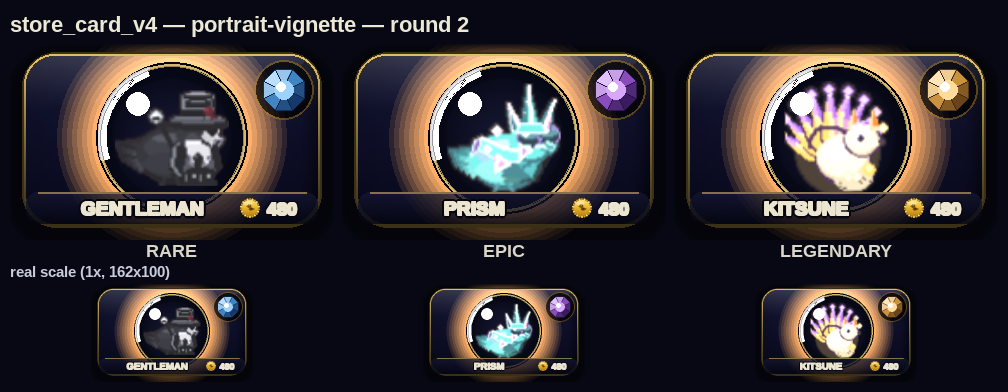
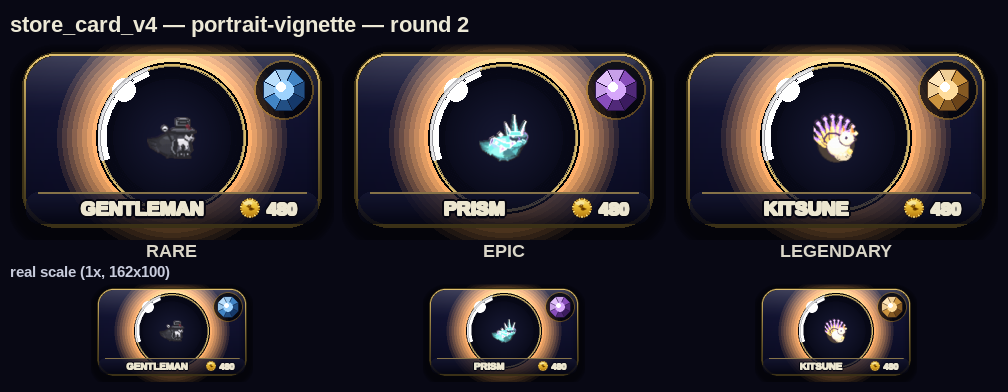
docs: store_card_v4 intaglio-seal round_2 + portrait-vignette r2 fix
Claude-Session: https://claude.ai/code/session_011726ot8uBSmurQVaEkGY6K

diff --git a/tools/_store_card_v4_intaglio_seal_r2.py b/tools/_store_card_v4_intaglio_seal_r2.py
@@ -1,0 +1,303 @@
+#!/usr/bin/env python3
+"""store_card_v4 intaglio-seal — round 2 (final).
+
+Round-1 read as a Skybit COIN (gold ring + domed face + gem + price = coin
+grammar) and had an invisible engraved name, a border that dissolved lower-left,
+blown top-right speculars, and a price chip the same value as the card body.
+
+Round 2 implements every art-director note:
+  P0  Hero is a heraldic ESCUTCHEON (arched top, pointed bottom), not a round
+      ring — instantly separating the crest from a coin. The domed gem now reads
+      as a stone SET INTO the crest.
+  P1  A warm stone-gold NAME PLAQUE below the shield carries the engraved name
+      (incised down-right shadow + up-left bevel highlight) so it is legible.
+  P2  A (8,8,20) contact-shadow ring outside the shield + a dark keyline under a
+      gold bevel keep the silhouette CLOSED all the way round, incl. lower-left.
+  P3  The shield bevel is lit by ONE consistent top-left source — golden bright
+      top-left easing to a still-legible shadow-gold bottom-right; no highlight
+      exceeds alpha 220 (no blown chrome).
+  P4  The price chip steps clearly above the card: a lighter indigo body ramp +
+      a CARD_RING_BRIGHT rim + a coin glyph + cream numerals.
+
+The card sizes preserve the AD layout order (shield high, plaque below, chip at
+the foot, tier gem top-right); the shield is scaled to compose cleanly inside
+the 176px body rather than overrunning the plaque + chip.
+"""
+import os
+import math
+
+os.environ["SDL_VIDEODRIVER"] = "dummy"
+os.environ["SDL_AUDIODRIVER"] = "dummy"
+import sys
+sys.path.insert(0, "/home/user/skybit")
+
+import pygame
+pygame.init()
+pygame.display.set_mode((1, 1))
+
+import game.store_cards as sc
+from game.store_cards import (
+    m, SS, vgrad, vgrad_stops, top_sheen, contact_shadow, bevel_rim,
+    drop_shadow, cabochon, cabochon_glass, blit_thumb, facet_gem, coin_glyph,
+    chip_body_stops, soft_glow, plain_text, _glyph_base, _stamp_bold, font,
+    CARD_T, CARD_B, CARD_RING_DEEP, CARD_RING_BRIGHT, CARD_RAD, GEM_R, RARITY,
+)
+from game.hud import _font
+from game.draw import lerp_color, WHITE, NEAR_BLACK
+
+
+# BLEND_ADD reads only RGB, so the stock gloss_sweep (which encodes the sweep in
+# ALPHA) writes alpha=0 into the destination on any transparent headroom. Encode
+# the ramp as RGB magnitude clipped to the pill mask so the gloss survives.
+def _gloss_sweep_fixed(surf, rect, radius, peak=120):
+    sweep = pygame.Surface(rect.size, pygame.SRCALPHA)
+    h = max(1, rect.h)
+    for y in range(h):
+        v = int(peak * (1 - y / h) ** 2.4)
+        if v <= 0:
+            continue
+        pygame.draw.line(sweep, (v, v, v, 255), (0, y), (rect.w, y))
+    sm = pygame.Surface(rect.size, pygame.SRCALPHA)
+    pygame.draw.rect(sm, (255, 255, 255, 255), sm.get_rect(), border_radius=radius)
+    sweep.blit(sm, (0, 0), special_flags=pygame.BLEND_RGBA_MIN)
+    surf.blit(sweep, rect.topleft, special_flags=pygame.BLEND_ADD)
+sc.gloss_sweep = _gloss_sweep_fixed
+
+
+# ── tiers under test ──────────────────────────────────────────────────────────
+TIERS = [
+    ("RARE",      "skin_tophat",  "520"),
+    ("EPIC",      "skin_prism",   "1,400"),
+    ("LEGENDARY", "skin_kitsune", "3,500"),
+]
+
+BG = (8, 8, 20)
+PANEL_W, PANEL_H = 162 * SS, 100 * SS       # authored device panel = 324x200
+GAP = 8
+MARGIN = 10
+TITLE_H = 34
+LABEL_H = 34
+CANVAS_W = MARGIN * 2 + PANEL_W * 3 + GAP * 2
+CANVAS_H = TITLE_H + PANEL_H + LABEL_H
+
+# Single top-left light — the ONE direction for every bevel on the card.
+LX, LY = -0.7071, -0.7071
+# Bevel range: golden crest highlight -> a shadow-gold that still holds L>=80 so
+# the border never dissolves into the body (P2 + P3 reconciled).
+BEVEL_BRIGHT = CARD_RING_BRIGHT              # (236,202,116)
+BEVEL_SHADOW = (122, 98, 48)                 # luma ~97 — reads as a lit edge
+
+
+def _quad(p0, p1, p2, steps):
+    return [((1 - t) ** 2 * p0[0] + 2 * (1 - t) * t * p1[0] + t * t * p2[0],
+             (1 - t) ** 2 * p0[1] + 2 * (1 - t) * t * p1[1] + t * t * p2[1])
+            for t in (i / steps for i in range(steps + 1))]
+
+
+def escutcheon(sx, sy, sw, sh):
+    """Heraldic heater shield: flat rounded top, straight shoulders, twin lower
+    arcs meeting at a point. Returned as a dense polygon so ONE smoothscale
+    resolves the curves crisp."""
+    left, right = sx, sx + sw
+    cx = sx + sw / 2.0
+    top, bot = sy, sy + sh
+    corner = sw * 0.13
+    shoulder = sy + sh * 0.34
+    pts = []
+    pts.append((left + corner, top))
+    pts.append((right - corner, top))
+    pts += _quad((right - corner, top), (right, top), (right, top + corner), 6)
+    pts.append((right, shoulder))
+    pts += _quad((right, shoulder), (right, bot), (cx, bot), 18)     # r lower arc
+    pts += _quad((cx, bot), (left, bot), (left, shoulder), 18)       # l lower arc
+    pts.append((left, top + corner))
+    pts += _quad((left, top + corner), (left, top), (left + corner, top), 6)
+    return pts
+
+
+def _centroid(pts):
+    return (sum(p[0] for p in pts) / len(pts),
+            sum(p[1] for p in pts) / len(pts))
+
+
+def _name_plaque(surf, name, cx, cy, w, h):
+    """Warm stone-gold plaque carrying the incised name. On this warm ground the
+    engraving reads: an up-left bevel highlight + a down-right incised shadow
+    around a dark carved fill."""
+    r = pygame.Rect(cx - w // 2, cy - h // 2, w, h)
+    rad = m(4)
+    drop_shadow(surf, r, rad, blur=m(3), alpha=90, dy=m(1.5))
+    surf.blit(vgrad_stops(w, h, rad, [(0.0, (180, 160, 110)), (1.0, (140, 115, 75))],
+                          alpha=230), r.topleft)
+    top_sheen(surf, r, rad, m(6), peak=52)
+    # dark contact keyline under a soft top-left stone bevel
+    pygame.draw.rect(surf, (66, 50, 24), r, width=max(1, m(1)), border_radius=rad)
+    bevel_rim(surf, r, rad, (78, 60, 30), (250, 236, 200, 180), w=max(1, m(1)))
+
+    sz = 12.0
+    f = font(sz)
+    while _glyph_base(name, f, 0).get_width() > w - m(16) and sz > 7.5:
+        sz -= 0.5
+        f = font(sz)
+    base = _stamp_bold(_glyph_base(name, f, 0), m(0.7))
+    rr = base.get_rect(center=(cx, cy))
+    hi = base.copy(); hi.fill((255, 240, 200, 255), special_flags=pygame.BLEND_RGBA_MULT)
+    shd = base.copy(); shd.fill((40, 30, 10, 255), special_flags=pygame.BLEND_RGBA_MULT)
+    mid = base.copy(); mid.fill((66, 48, 20, 255), special_flags=pygame.BLEND_RGBA_MULT)
+    surf.blit(hi, (rr.x - m(1), rr.y - m(1)))       # up-left bevel highlight
+    surf.blit(shd, (rr.x + m(1), rr.y + m(1)))      # down-right incised shadow
+    surf.blit(mid, rr.topleft)                      # carved-dark letter core
+
+
+def _seal_price_chip(surf, cx, cy, text, h):
+    """Price chip stepped clearly above the card body: a lighter indigo ramp
+    (never the card's own dark), a bright card-ring rim, a coin glyph + cream
+    numerals."""
+    coin_d = int(h * 0.62)
+    pad = m(11)
+    gapc = m(6)
+    f = font(h * 0.46 / SS)
+    nw = _glyph_base(text, f, 0).get_width() + m(2)
+    w = pad + coin_d + gapc + nw + pad
+    r = pygame.Rect(cx - w // 2, cy - h // 2, w, h)
+    chip_body_stops(surf, r, h // 2, [(0.0, (48, 44, 80)), (1.0, (28, 24, 52))],
+                    (8, 8, 20), CARD_RING_BRIGHT, gloss=34, gamma=1.05)
+    rim = pygame.Surface(r.size, pygame.SRCALPHA)
+    pygame.draw.rect(rim, (*CARD_RING_BRIGHT, 180), rim.get_rect(),
+                     width=max(1, m(1)), border_radius=h // 2)
+    surf.blit(rim, r.topleft)
+    x = r.x + pad
+    coin_glyph(surf, x + coin_d // 2, cy, coin_d // 2)
+    x += coin_d + gapc
+    plain_text(surf, text, f, (x + nw // 2, cy), (236, 230, 208), shadow_a=0,
+               weight=m(1.0))
+    return r
+
+
+def _draw_shield(big, sid, rect, pal):
+    cx = rect.centerx
+    sw, sh = m(44), m(50)
+    sx = cx - sw // 2
+    sy = rect.y + m(5)
+    outline = escutcheon(sx, sy, sw, sh)
+    ctr = _centroid(outline)
+
+    # P2a — contact-shadow ring OUTSIDE the border (offset down-right) so even the
+    # shadowed lower arch is backed by a dark edge on the body.
+    shadow_pts = [(x + m(2), y + m(2)) for (x, y) in outline]
+    shsurf = pygame.Surface(big.get_size(), pygame.SRCALPHA)
+    pygame.draw.polygon(shsurf, (8, 8, 20, 220), shadow_pts)
+    big.blit(shsurf, (0, 0))
+
+    # Shield field — a dark, faintly tier-tinted stone so the set gem pops. Built
+    # on its own surface + masked to the silhouette, then one top sheen.
+    bx0 = min(p[0] for p in outline); by0 = min(p[1] for p in outline)
+    bx1 = max(p[0] for p in outline); by1 = max(p[1] for p in outline)
+    bw, bh = int(bx1 - bx0) + 1, int(by1 - by0) + 1
+    field_t = lerp_color((26, 28, 62), pal["deep"], 0.28)
+    field_b = lerp_color((10, 11, 30), pal["deep"], 0.16)
+    grad = vgrad_stops(bw, bh, 0, [(0.0, field_t), (1.0, field_b)], 255, gamma=1.18)
+    local = [(x - bx0, y - by0) for (x, y) in outline]
+    mask = pygame.Surface((bw, bh), pygame.SRCALPHA)
+    pygame.draw.polygon(mask, (255, 255, 255, 255), local)
+    grad.blit(mask, (0, 0), special_flags=pygame.BLEND_RGBA_MIN)
+    sheen = pygame.Surface((bw, bh), pygame.SRCALPHA)
+    for y in range(int(sh * 0.5)):
+        pygame.draw.line(sheen, (255, 255, 255, int(46 * (1 - y / (sh * 0.5)) ** 1.4)),
+                         (0, y), (bw, y))
+    sheen.blit(mask, (0, 0), special_flags=pygame.BLEND_RGBA_MIN)
+    grad.blit(sheen, (0, 0), special_flags=pygame.BLEND_RGBA_ADD)
+    big.blit(grad, (int(bx0), int(by0)))
+
+    # P2b — dark keyline all the way round (a closed contact edge), then
+    # P3 — a single top-left-lit gold bevel just inside it. Per-edge shade eases
+    # bright(top-left) -> shadow-gold(bottom-right); no alpha above 220.
+    pygame.draw.polygon(big, (4, 5, 16), [(int(x), int(y)) for x, y in outline],
+                        width=max(1, m(2)))
+    inset = [(x + sc_unit(x, y, ctr)[0] * m(1.4),
+              y + sc_unit(x, y, ctr)[1] * m(1.4)) for (x, y) in outline]
+    n = len(inset)
+    for i in range(n):
+        x1, y1 = inset[i]
+        x2, y2 = inset[(i + 1) % n]
+        mx, my = (x1 + x2) / 2, (y1 + y2) / 2
+        ox, oy = sc_unit(mx, my, ctr)
+        f = max(0.0, min(1.0, (ox * LX + oy * LY + 1) / 2))   # 0 shadow .. 1 lit
+        col = lerp_color(BEVEL_SHADOW, BEVEL_BRIGHT, f)
+        a = int(150 + 70 * f)                                  # 150..220 (capped)
+        pygame.draw.line(big, (*col, a), (x1, y1), (x2, y2), max(1, m(1.7)))
+
+    return cx, sy, sw, sh
+
+
+def sc_unit(x, y, ctr):
+    dx, dy = x - ctr[0], y - ctr[1]
+    l = math.hypot(dx, dy) or 1.0
+    return dx / l, dy / l
+
+
+def render_panel(word, sid, price):
+    pal = RARITY[sc._rarity(sid)]
+    big = pygame.Surface((PANEL_W, PANEL_H), pygame.SRCALPHA)
+    rect = pygame.Rect(m(6), m(6), PANEL_W - 2 * m(6), PANEL_H - 2 * m(6))
+    rad = m(CARD_RAD)
+
+    # ── card shell (the locked CONSTELLATION body finish) ─────────────────────
+    drop_shadow(big, rect, rad, blur=m(8), alpha=160, dy=m(4))
+    big.blit(vgrad(rect.w, rect.h, rad, CARD_T, CARD_B, 252, gamma=1.15), rect.topleft)
+    top_sheen(big, rect, rad, m(30), peak=62)
+    contact_shadow(big, rect, rad, m(9), alpha=120)
+    pygame.draw.rect(big, (4, 5, 16), rect, width=max(1, m(2)), border_radius=rad)
+    bevel_rim(big, rect, rad, CARD_RING_DEEP, (*CARD_RING_BRIGHT, 235), w=max(1, m(2.0)))
+    # neutral inner tray keyline, matching the family
+    tray = rect.inflate(-m(7), -m(7))
+    pygame.draw.rect(big, (10, 10, 24, 200), tray.inflate(m(2), m(2)),
+                     width=max(1, m(1)), border_radius=rad - m(3))
+    pygame.draw.rect(big, (*CARD_RING_BRIGHT, 80), tray, width=max(1, m(1)),
+                     border_radius=rad - m(4))
+
+    # ── P0 hero: the escutcheon crest with a gem set into it ───────────────────
+    cx, sy, sw, sh = _draw_shield(big, sid, rect, pal)
+    cyd = sy + m(21)
+    r_dome = m(15)
+    soft_glow(big, cx, cyd, r_dome + m(3), pal["glow"], 26, layers=8)
+    cabochon(big, cx, cyd, r_dome, sc.CABO_LO, sc.CABO_HI, ring=pal["gem"], ring_a=50)
+    try:
+        blit_thumb(big, sid, cx, cyd, int(r_dome * 1.5))
+    except Exception:
+        pygame.draw.circle(big, (*pal["gem"], 255), (cx, cyd), int(r_dome * 0.7))
+    cabochon_glass(big, cx, cyd, r_dome, tint=pal["gem"])
+
+    # ── tier rank gem, top-right corner ───────────────────────────────────────
+    facet_gem(big, rect.right - m(19), rect.y + m(19), m(GEM_R + 3),
+              pal["gem"], pal["deep"])
+
+    # ── P1 name plaque, then P4 price chip ────────────────────────────────────
+    _name_plaque(big, sc._name(sid), cx, sy + sh + m(7), rect.w - m(16), m(13))
+    _seal_price_chip(big, cx, rect.bottom - m(10), price, m(16))
+    return big
+
+
+# =============================================================================
+# Stitch the 3-panel strip.
+# =============================================================================
+canvas = pygame.Surface((CANVAS_W, CANVAS_H))
+canvas.fill(BG)
+
+title = _font(22, True)
+tt = title.render("store_card_v4  –  intaglio-seal  –  round 2 (final)",
+                  True, (226, 224, 240))
+canvas.blit(tt, tt.get_rect(midtop=(CANVAS_W // 2, 7)))
+
+label_font = _font(20, True)
+for i, (word, sid, price) in enumerate(TIERS):
+    panel = render_panel(word, sid, price)
+    px = MARGIN + i * (PANEL_W + GAP)
+    canvas.blit(panel, (px, TITLE_H))
+    lab = label_font.render(word, True, (206, 210, 228))
+    canvas.blit(lab, lab.get_rect(midtop=(px + PANEL_W // 2, TITLE_H + PANEL_H + 6)))
+
+out = "/home/user/skybit/docs/store_card_v4/intaglio-seal/round_2.png"
+os.makedirs(os.path.dirname(out), exist_ok=True)
+pygame.image.save(canvas, out)
+print("saved", out, canvas.get_size())

diff --git a/tools/_store_card_v4_portrait_vignette_r2.py b/tools/_store_card_v4_portrait_vignette_r2.py
@@ -74,7 +74,7 @@ def _spotlight_vignette(surf, rect, spot, peak=104, reach=None, falloff=1.1):
     if reach is None:
         # Reach well past the disc so the collar stays lit; corners (~0.9*reach)
         # still fall deep into the veil.
-        reach = int(math.hypot(w, h) * 0.55)
+        reach = int(math.hypot(w, h) * 0.66)
     vig = pygame.Surface((w, h), pygame.SRCALPHA)
     vig.fill((*NEAR_BLACK, peak))
     light = pygame.Surface((w, h), pygame.SRCALPHA)
@@ -134,7 +134,7 @@ def _hero_specular(surf, cx, cy, r):
     pr = max(1, int(r * 0.17))
     pip = pygame.Surface((pr * 2 + m(2), pr * 2 + m(2)), pygame.SRCALPHA)
     pygame.draw.circle(pip, (255, 255, 255, 235), (pr + m(1), pr + m(1)), pr)
-    off = int(r * 0.48)
+    off = int(r * 0.66)
     surf.blit(pip, (cx - pr - off, cy - pr - off),
               special_flags=pygame.BLEND_ADD)
 
@@ -170,9 +170,11 @@ def render_card(sid):
     top_sheen(big, rect, rad, m(30), peak=62)
     # spotlight over the bright indigo, tracking the disc centre: shallow+wide
     # veil first, then the warm additive lamp core so the collar reads lit.
-    _spotlight_vignette(big, rect, (cx - rect.x, cy - rect.y), peak=104)
+    _spotlight_vignette(big, rect, (cx - rect.x, cy - rect.y), peak=96)
     _warm_core(big, cx, cy, m(60))
-    contact_shadow(big, rect, rad, m(9), alpha=120)
+    # softened, shallower AO so the bottom corners settle to shadow (L~8-12)
+    # rather than crushing to pure black under the veil.
+    contact_shadow(big, rect, rad, m(7), alpha=70)
     pygame.draw.rect(big, (4, 5, 16), rect, width=max(1, m(2)), border_radius=rad)
     bevel_rim(big, rect, rad, CARD_RING_DEEP, (*CARD_RING_BRIGHT, 235),
               w=max(1, m(2.0)))
@@ -180,7 +182,7 @@ def render_card(sid):
     # ── HERO DISC ──
     soft_glow(big, cx, cy, m(R + 3), pal["glow"], 34, layers=9)
     cabochon(big, cx, cy, m(R), CABO_LO, CABO_HI, ring=pal["gem"], ring_a=55)
-    blit_thumb(big, sid, cx, cy, m(R) * 1.5)
+    blit_thumb(big, sid, cx, cy, m(R) * 0.66)
     cabochon_glass(big, cx, cy, m(R), tint=pal["gem"])
     _hero_specular(big, cx, cy, m(R))              # luminance-independent catch-light
 
@@ -288,6 +290,7 @@ if "--probe" in sys.argv:
         return 903.3 * y if y <= 0.008856 else 116 * y ** (1 / 3) - 16
 
     epic = render_card("skin_prism")
+    tophat = render_card("skin_tophat")           # RARE, dark jacket/top-hat
     # local disc centre in the SS panel
     r = pygame.Rect(m(_INSET), m(_INSET),
                     CARD_W * SS - 2 * m(_INSET), CARD_H * SS - 2 * m(_INSET))
@@ -305,3 +308,12 @@ if "--probe" in sys.argv:
     for label, (x, y) in probes.items():
         c = epic.get_at((x, y))
         print(f"  {label:16s} rgb={tuple(c)[:3]} L*={_lstar(c):5.1f}")
+    # dark-skin rescue check: scan the upper-left rim band of skin_tophat for its
+    # brightest specular pixel — it must be a genuine high-value catch-light.
+    best = 0.0
+    for ang in range(120, 205, 5):
+        rr = m(R) - m(4)
+        px = dcx + int(rr * math.cos(math.radians(ang)))
+        py = dcy + int(rr * math.sin(math.radians(ang)))
+        best = max(best, _lstar(tophat.get_at((px, py))))
+    print(f"  tophat_specular_peak L*={best:5.1f}")
